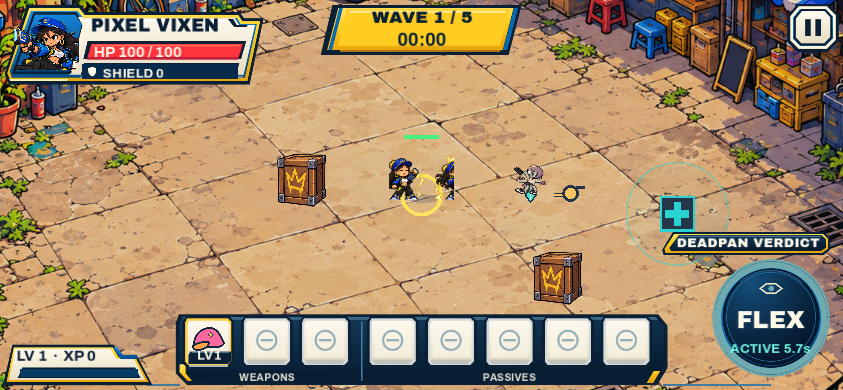
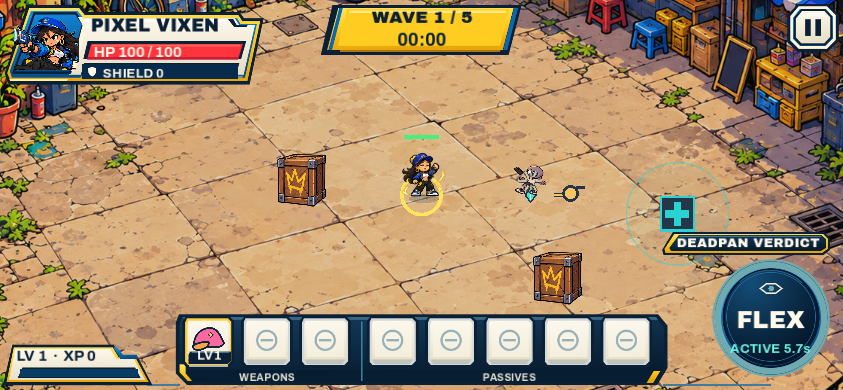
fix(m0): register irregular V2 atlas poses without changing source art

Changed region(s): [[0.4626, 0.4, 0.5552, 0.5231]]

diff --git a/docs/recovery/PIXEL_VIXEN_V2_HANDOFF_2026-10-31.md b/docs/recovery/PIXEL_VIXEN_V2_HANDOFF_2026-10-31.md
@@ -1,12 +1,12 @@
 # Pixel Vixen V2 source import and runtime verification — 31 October 2026
 
-**The missing-source blocker is resolved.** The creator attached `pixel_vixen_v2_for_work(1).zip`. Its three original PNGs have been imported into the existing [PR #97](https://github.com/pedro-ai-coder/aura-farmer-godot/pull/97) branch, `feat/m0-pixel-vixen-playable-candidate`. The existing manifest has not been changed to accept different artwork. The ZIP's additional manifest does not replace the repository's provenance or approval record.
+**The missing-source blocker is resolved.** The creator attached `pixel_vixen_v2_for_work(1).zip`. Its three original PNGs have been imported into the existing [PR #97](https://github.com/pedro-ai-coder/aura-farmer-godot/pull/97) branch, `feat/m0-pixel-vixen-playable-candidate`. The existing PNG hash pins and dimensions have not been changed to accept different artwork; only incorrect uniform-grid layout metadata was corrected after inspecting the actual atlas. The ZIP's additional manifest does not replace the repository's provenance or approval record.
 
 These assets remain **UNAPPROVED_CREATOR_REVIEW_CANDIDATE / PREVIEW_ONLY**. This import is not artistic approval, merge authorization or authorization for production deployment. Byte Baddie and Block Queen remain unavailable pending their own artwork and the creator's staged review.
 
 ## Exact source verification
 
-All three files match the existing [V2 manifest](../../assets/art-candidates/pixel-vixen/v2/manifest.json), byte for byte:
+All three files match the original hash pins in the [V2 manifest](../../assets/art-candidates/pixel-vixen/v2/manifest.json), byte for byte:
 
 | File | Dimensions | SHA-256 |
 | --- | --- | --- |
@@ -30,7 +30,11 @@ Selected captures are stored as lossless WebP; decoded RGB pixels were verified 
 - [Mobile landscape Flex](evidence/pixel-vixen-v2/flex-844x390.webp)
 - [Portrait selection](evidence/pixel-vixen-v2/selection-390x844.webp)
 
-These are staged native runtime fixtures, not browser, physical-device, performance or human-playtest measurements. The atlas's mirrored/approximated directional coverage remains as documented in the unchanged manifest; 49 cells do not establish final animation-quality approval.
+These are staged native runtime fixtures, not browser, physical-device, performance or human-playtest measurements. The atlas's mirrored/approximated directional coverage remains as documented in the manifest; neither 51 source poses nor 49 logical slots establish final animation-quality approval.
+
+## Atlas registration correction
+
+Visual inspection caught detached boots from the previous row while moving. The supplied atlas actually contains **51 unevenly spaced source poses**, distributed 7/7/7/8/6/8/8, rather than the assumed uniform 128×96 grid. Explicit source rectangles in `scripts/pixel_vixen_frames.gd` now register those poses into the existing 49 logical playback slots. No PNG was edited, no gameplay timing was retuned and no V1 fallback was introduced. The shared Sigma state machine still determines state and timing; short/extra source rows are mapped within that visual adapter. A regression checks that the running pose includes its actual head and excludes the previous idle pose’s boots. Native captures were repeated after this correction.
 
 ## Canonical behavior and export guards
 
@@ -41,3 +45,5 @@ The mandatory real-asset suites `test_hero_appearance_selection.gd` and `test_pi
 The official Web build still fails closed on missing or mismatched V2 sources. Its exported PCK must contain all three imported V2 textures and this candidate manifest, and must exclude the superseded V1 directory. Historical V1 source bytes remain in Git but are not a runtime/export fallback. Build success and runtime captures do not supersede the creator's approval gate.
 
 The earlier failed runs on `e774da79` and `4b437b6` genuinely lacked the PNGs. They are historical failures, not waived passes. Review the new exact-build preview before approving Pixel Vixen or beginning the next female artwork batch. Do not merge or deploy this candidate to production automatically.
+
+The final exact-preview verification is recorded on PR #97. The cloud browser reached the preview but explicitly reported missing WebGL2; interactive Web/device gameplay remains unverified in this session.
